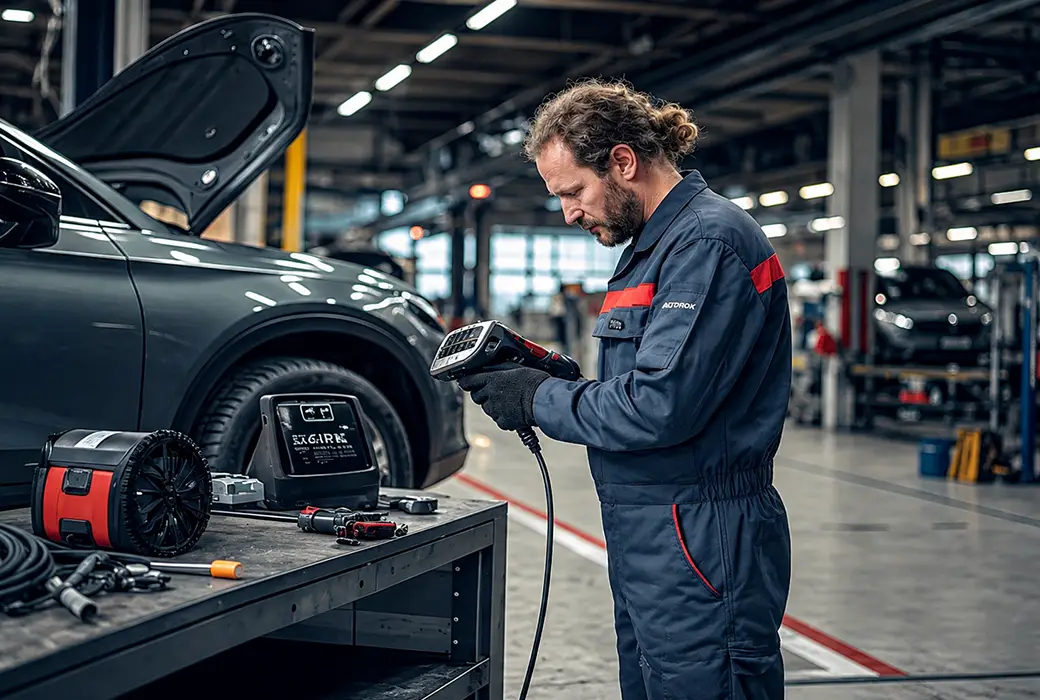
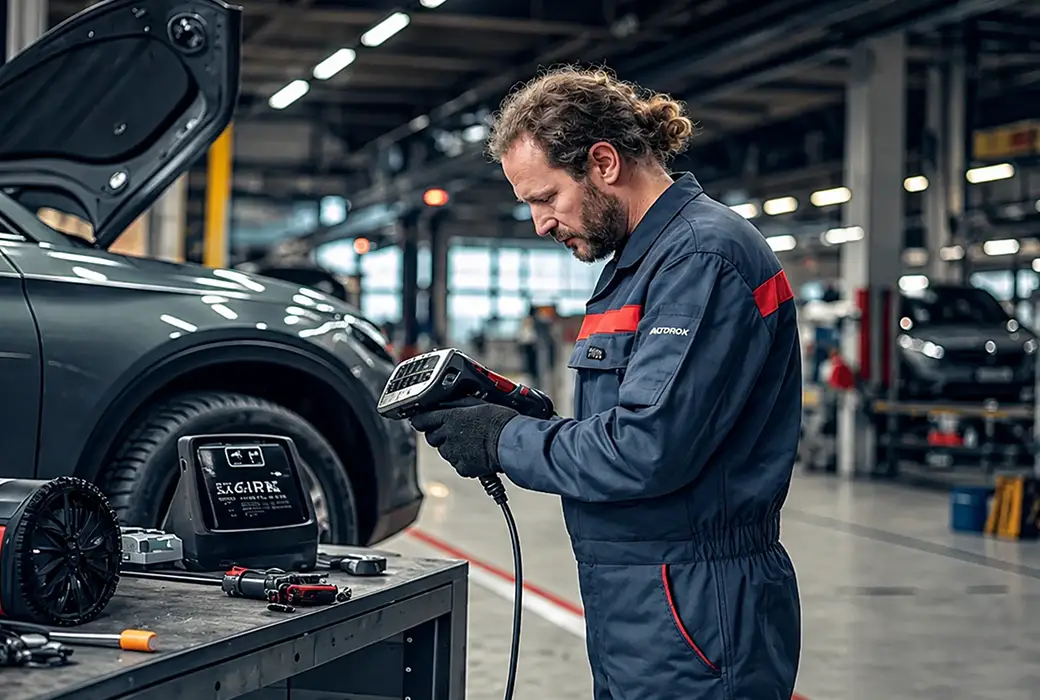
Add real Convoyeur/Négociant hero photos, shrink navbar and CTA button
- Swap the taxi/home placeholder hero images in the garage carousel for
  real Convoyeurs and Négociants photos
- Reduce navbar height (smaller logo, smaller nav font, padding instead of
  a hardcoded fixed height) and shrink the CtaButton component globally
  (it's shared across every page that shows a CTA)
- Position the mega-menu dropdown by measuring the navbar's real rendered
  height instead of a hardcoded pixel offset, so it stays correctly placed
  if the navbar's size changes again

diff --git a/components/Navbar.js b/components/Navbar.js
@@ -1,4 +1,4 @@
-import { useState, useEffect } from 'react'
+import { useState, useEffect, useRef } from 'react'
 import Image from 'next/image'
 import Link from 'next/link'
 import * as NavMenu from '@radix-ui/react-navigation-menu'
@@ -18,7 +18,7 @@ import { NAV_ITEMS } from './navData'
 
 function Logo() {
   return (
-    <Image src="/logos/nwc-logo.svg" alt="New World Courtage" width={182} height={223} className="h-11 w-auto" priority />
+    <Image src="/logos/nwc-logo.svg" alt="New World Courtage" width={182} height={223} className="h-8 w-auto" priority />
   )
 }
 
@@ -206,11 +206,30 @@ function MobileDrawer({ open, onClose }) {
 
 export default function Navbar() {
   const [drawerOpen, setDrawerOpen] = useState(false)
+  const headerRef = useRef(null)
+  const [headerHeight, setHeaderHeight] = useState(0)
+
+  // The mega-menu dropdown is positioned fixed to the viewport (see
+  // NavMenu.Content below) rather than absolute-to-header, because Radix's
+  // NavigationMenu internals set their own position on an ancestor between
+  // header and Content, which would otherwise hijack the containing block
+  // and misplace the dropdown. Measuring the real height here instead of a
+  // hardcoded Tailwind class keeps it in sync if the header's padding/
+  // content ever changes again.
+  useEffect(() => {
+    const el = headerRef.current
+    if (!el) return
+    const update = () => setHeaderHeight(el.offsetHeight)
+    update()
+    const ro = new ResizeObserver(update)
+    ro.observe(el)
+    return () => ro.disconnect()
+  }, [])
 
   return (
     <>
-      <header className="sticky top-0 z-40 h-24 w-full bg-white border-b border-gray-200">
-        <div className="px-4 lg:px-12 2xl:px-24 h-full flex items-center">
+      <header ref={headerRef} className="sticky top-0 z-40 w-full bg-white border-b border-gray-200 py-3">
+        <div className="px-4 lg:px-12 2xl:px-24 flex items-center">
 
           {/* Logo */}
           <Link href="/" className="shrink-0 mr-4 lg:mr-10">
@@ -223,11 +242,14 @@ export default function Navbar() {
               {NAV_ITEMS.map((item) => (
                 <NavMenu.Item key={item.id}>
                   <NavMenu.Trigger onPointerDown={(e) => e.preventDefault()} asChild>
-                    <Button variant="link" className="px-5 py-2 text-base font-semibold data-[state=open]:text-[var(--color-brand)] hover:no-underline">
+                    <Button variant="link" className="px-5 py-2 text-sm font-semibold data-[state=open]:text-[var(--color-brand)] hover:no-underline">
                       {item.label}
                     </Button>
                   </NavMenu.Trigger>
-                  <NavMenu.Content className="fixed top-24 left-0 w-screen bg-white border-b border-gray-200 shadow-lg z-50 [animation:nav-fade-in_0.15s_ease]">
+                  <NavMenu.Content
+                    className="fixed left-0 w-screen bg-white border-b border-gray-200 shadow-lg z-50 [animation:nav-fade-in_0.15s_ease]"
+                    style={{ top: headerHeight }}
+                  >
                     <MegaMenuContent item={item} />
                   </NavMenu.Content>
                 </NavMenu.Item>
@@ -238,7 +260,7 @@ export default function Navbar() {
 
           {/* Utility — desktop */}
           <div className="hidden lg:flex items-center gap-3 ml-auto shrink-0">
-            <Button variant="link" asChild className="px-5 py-2 text-base font-semibold hover:no-underline hover:text-[var(--color-text)]">
+            <Button variant="link" asChild className="px-5 py-2 text-sm font-semibold hover:no-underline hover:text-[var(--color-text)]">
               <Link href="/a-propos/">À propos</Link>
             </Button>
             <CtaButton href="/devis/" />

diff --git a/pages/assurance-pro-auto/garagiste/index.js b/pages/assurance-pro-auto/garagiste/index.js
@@ -124,11 +124,11 @@ export default function GaragistePage({ guideData }) {
               title: <>Votre assurance <em className="italic">Protect Garage</em> commence par un simple devis.</>,
             },
             {
-              image: "/heroes/taxi-desktop.webp", mobileImage: "/heroes/taxi-mobile.webp",
+              image: "/heroes/garage-convoyeur-desktop.webp", mobileImage: "/heroes/garage-convoyeur-mobile.webp",
               title: <>Votre assurance <em className="italic">Convoyeurs</em> commence par un simple devis.</>,
             },
             {
-              image: "/heroes/home-desktop.webp", mobileImage: "/heroes/home-mobile.webp",
+              image: "/heroes/negociant-automobile-desktop.webp", mobileImage: "/heroes/negociant-automobile-mobile.webp",
               title: <>Votre assurance <em className="italic">Négociants</em> commence par un simple devis.</>,
             },
           ]}

diff --git a/components/CtaButton.js b/components/CtaButton.js
@@ -4,7 +4,7 @@ import { cn } from "@/lib/utils";
 import { ChevronRight } from "lucide-react";
 
 export default function CtaButton({ href = "/devis", label = "Devis gratuit", className = "", target, rel, type = "link", onClick }) {
-  const buttonClassName = cn("cta-btn text-white text-base font-normal py-[25px] px-[15px]", className);
+  const buttonClassName = cn("cta-btn text-white text-sm font-normal py-2.5 px-4", className);
 
   if (type === "submit" || type === "button") {
     return (
